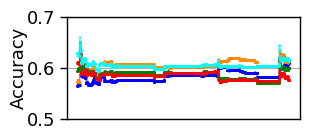
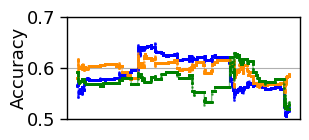
exp

Changed region(s): [[0.233, 0.2571, 0.9612, 0.8571]]

diff --git a/experiments/stocks/stock_nanosecond/end2end/remove_some_communication_services_stocks_05-18/HAT_window_10_08-15/communication_services_fig.py b/experiments/stocks/stock_nanosecond/end2end/remove_some_communication_services_stocks_05-18/HAT_window_10_08-15/communication_services_fig.py
@@ -15,7 +15,6 @@ import seaborn as sns
 import matplotlib.dates as mdates
 import numpy as np
 
-
 # sns.set_style("whitegrid")
 sns.set_palette("Paired")
 sns.set_context("paper", font_scale=2)
@@ -44,13 +43,8 @@ def get_integer(alpha):
     return int(alpha)
 
 
-time_period = "14-00--14-10"
-date = "20241015"
-len_chunk = 1
-alpha = 0.9997
 
-
-
+alpha = 0.99995
 threshold = 0.4
 label_prediction = "predicted_direction"
 label_ground_truth = "next_price_direction"
@@ -60,56 +54,57 @@ time_unit = "10000 nanosecond"
 window_size_units = "10"
 checking_interval = "100000 nanosecond"
 use_nanosecond = True
-
-stock_sector = "Communication Services"
-draw_figure_start_time = pd.Timestamp('2024-10-15 14:00:10.00', tz='UTC')
-draw_figure_end_time = pd.Timestamp('2024-10-15 14:00:11.00', tz='UTC')
-# curve_names = ['Technology', 'Communication Services', 'Consumer Cyclical']
+curve_names = ['Technology', 'Communication Services', 'Consumer Cyclical']
 pair_colors = ["blue", "darkorange", "green", "red", "cyan", "black", "magenta"]
-removed_percentage = [95, 92, 90, 80, 70]
-fig, ax = plt.subplots(figsize=(3.5, 1.8))
-plt.subplots_adjust(left=0.1, right=0.9, top=0.8, bottom=0.1)
+removed_percentage = [70, 80, 90]
 
-idx=0
-for idx in range(0, len(removed_percentage)):
-    stock_fraction = removed_percentage[idx]
-    print("stock fraction", stock_fraction, "color", pair_colors[idx])
-    data_file_name = f"accuracy_alpha_9997_remove_fraction_{int(stock_fraction)}.csv"
+draw_figure_start_time = pd.Timestamp('2024-10-15 14:00:05.00', tz='UTC')
+draw_figure_end_time = pd.Timestamp('2024-10-15 14:00:18.00', tz='UTC')
+
+fig, axes = plt.subplots(1, 3, figsize=(8, 1.5))
+plt.subplots_adjust(left=0.1, right=0.98, top=0.8, bottom=0.1, wspace=0.3)
+
+
+for j in range(len(removed_percentage)):
+    stock_fraction = removed_percentage[j]
+    data_file_name = f"accuracy_alpha_99995_remove_fraction_{stock_fraction}.csv"
     df = pd.read_csv(data_file_name)
     df["check_points"] = pd.to_datetime(df["check_points"])
     print(len(df))
-    # print(df[:2])
+    print(df[:2])
     df = df[(df["check_points"] >= draw_figure_start_time) & (df["check_points"] <= draw_figure_end_time)]
-
-    # df["check_points"] = df["check_points"].apply(lambda x: datetime.strptime(x, "%Y-%m-%d %H:%M:%S").strftime("%m/%d/%Y"))
     check_points = df["check_points"].tolist()
     x_list = np.arange(0, len(df))
-    curve_names = df.columns.tolist()[:-1]
-    ax.plot(x_list, df[stock_sector].tolist(), linewidth=1, markersize=1, label=f"Remove {stock_fraction}%", linestyle='-',
-            marker='o', color=pair_colors[idx], alpha=0.5)
+    start_floor = draw_figure_start_time.floor('s')  # Floor to nearest second
+    end_ceil = draw_figure_end_time.ceil('s')  # Ceiling to nearest second
+    xticks_times = pd.date_range(start=start_floor, end=end_ceil, freq='1s')
+    ax = axes[j]
+    for i in range(len(curve_names)):
+        ax.plot(check_points, df[curve_names[i]].tolist(), linewidth=1, markersize=1, label=curve_names[i],
+                linestyle='-',
+                marker='o', color=pair_colors[i], alpha=0.5)
+    ax.set_xticks([xticks_times[k] for k in range(0, len(xticks_times), 2)])
+    ax.set_xticklabels([5, 7, 9, 11, 13, 15, 17], fontsize=14)
+    ax.xaxis.set_major_formatter(mdates.DateFormatter('%S'))
+    ax.set_ylabel('Accuracy', fontsize=14, labelpad=-1).set_position([0.1, 1])
+    ax.set_yticks([0.55, 0.6, 0.65])
+    ax.set_yticklabels([0.55, 0.6, 0.65], fontsize=14)
+    ax.set_ylim(0.55, 0.65)
+    ax.grid(True)
+    ax.tick_params(axis='x', which='major', pad=2)
+    ax.tick_params(axis='y', which='major', pad=2)
+
+handles, labels = [], []
+for ax in axes:
+    for line in ax.get_lines():
+        handles.append(line)
+        labels.append(line.get_label())
+    break
 
 
-
-
-
-
-
-plt.xlabel('',
-           fontsize=14, labelpad=5).set_position((0.47, 0))
-plt.ylabel('Accuracy', fontsize=13, labelpad=-1)
-plt.xticks([], [])
-plt.yticks([0.5, 0.6, 0.7], fontsize=13)
-plt.ylim(0.5, 0.7)
-
-# # Manually place the label for 0.6 with a slight adjustment
-# plt.text(-845, 0.58, '0.6', fontsize=17, va='bottom')  # Adjust the 0.6 label higher
-
-
-plt.grid(True, axis='y')
-plt.tight_layout()
-# plt.legend(loc='upper left', bbox_to_anchor=(-0.25, 1.4), fontsize=11,
-#                ncol=2, labelspacing=0.5, handletextpad=0.2, markerscale=4, handlelength=1.5,
-#                columnspacing=0.6, borderpad=0.2, frameon=True)
+plt.legend(handles, labels, loc='upper center', bbox_to_anchor=(-1, 1.4), fontsize=14,
+               ncol=3, labelspacing=0.5, handletextpad=0.2, markerscale=6, handlelength=1.5,
+               columnspacing=0.6, borderpad=0.2, frameon=True)
 plt.savefig(f"StockAcc_end2end_HAT_alpha_{get_integer(alpha)}_remove_stock_different_fraction.png",
             bbox_inches='tight')
 plt.show()

diff --git a/experiments/stocks/stock_nanosecond/end2end/remove_some_communication_services_stocks_05-18/HAT_window_10_08-15/accuracy_fig.py b/experiments/stocks/stock_nanosecond/end2end/remove_some_communication_services_stocks_05-18/HAT_window_10_08-15/accuracy_fig.py
@@ -59,12 +59,10 @@ checking_interval = "100000 nanosecond"
 use_nanosecond = True
 
 
-stock_fraction = 7
+stock_fraction = 9
 # Prepare the result file for writing
 data_file_name = f"accuracy_alpha_99995_remove_fraction_{stock_fraction*10}.csv"
 df = pd.read_csv(data_file_name)
-
-
 df["check_points"] = pd.to_datetime(df["check_points"])
 print(len(df))
 print(df[:2])

diff --git a/experiments/stocks/stock_nanosecond/end2end/remove_some_communication_services_stocks_05-18/HAT_window_10_08-15/accuracy.py b/experiments/stocks/stock_nanosecond/end2end/remove_some_communication_services_stocks_05-18/HAT_window_10_08-15/accuracy.py
@@ -234,8 +234,7 @@ plt.xticks([], [])
 plt.yticks([0.5, 0.6, 0.7], fontsize=13)
 plt.ylim(0.5, 0.7)
 
-# # Manually place the label for 0.6 with a slight adjustment
-# plt.text(-845, 0.58, '0.6', fontsize=17, va='bottom')  # Adjust the 0.6 label higher
+
 
 
 plt.grid(True, axis='y')

diff --git a/experiments/stocks/stock_nanosecond/end2end/remove_some_communication_services_stocks_05-18/HAT_window_10_08-15/training_opt.py b/experiments/stocks/stock_nanosecond/end2end/remove_some_communication_services_stocks_05-18/HAT_window_10_08-15/training_opt.py
@@ -18,7 +18,7 @@ def get_integer(alpha):
 # time_period = "14-00--14-10"
 # date = "20241015"
 # data_file_name = f"xnas-itch-{date}_{time_period}"
-fractions = 60
+fractions = 90
 data_stream = pd.read_csv(f'../random_filtered_data_fraction_{fractions}.csv')
 
 
